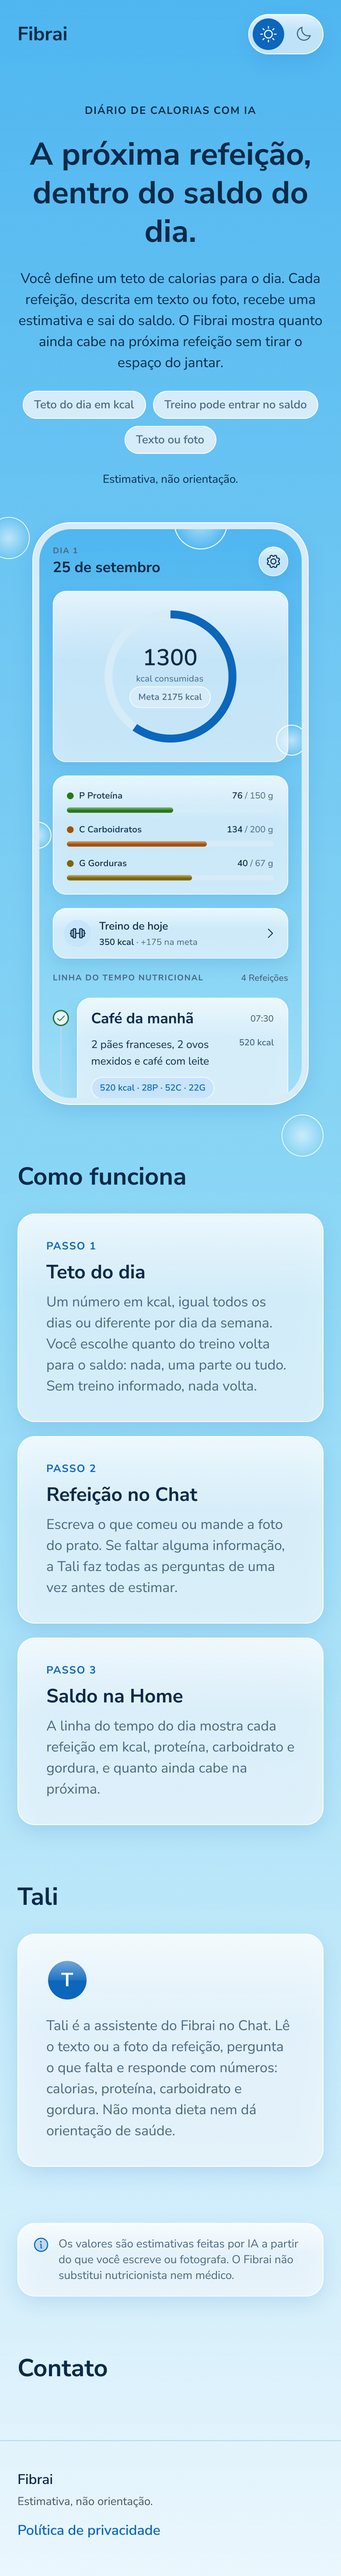
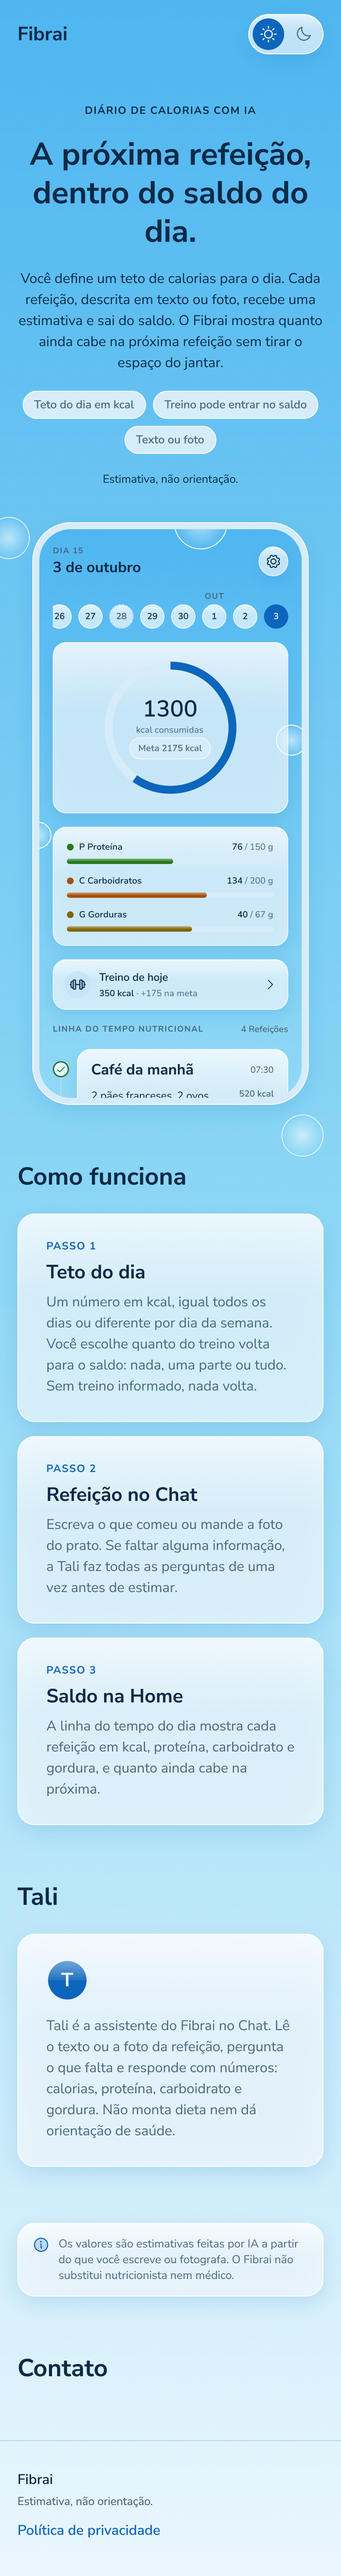
docs(design): D29 owner OK, land and landM golds exported, plan closed

Changed region(s): [[0.1538, 0.2179, 0.8615, 0.4357]]

diff --git a/docs/site/plans/w3-landing-screens-after-onboarding.md b/docs/site/plans/w3-landing-screens-after-onboarding.md
@@ -13,7 +13,7 @@
 - Related documentation: [site README](../README.md), [ADR-037](../adrs/ADR-037-landing-site.md), [W1](completed/w1-landing-site.md) (§ 6, the screen cut), [D11](../../design/plans/completed/d11-landing-page.md), [ADR-057](../../produto/adrs/ADR-057-conversational-onboarding.md), [ADR-058](../../produto/adrs/ADR-058-extras-and-history.md), the [run report of D27 and D28](../../design/validation/2026-10-09-d27-d28.md) (follow-up 2), the [gold inventory](../../qa/README.md#golds), [production gate](../../content-policy/production-gate.md).
 - Prerequisites:
   - [D27](../../design/plans/completed/d27-conversational-onboarding.md) and [D28](../../design/plans/completed/d28-home-extras-and-history.md) `Concluído` (met);
-  - [D29](../../design/plans/pending_manual_validation/d29-landing-phone-screens.md) `Concluído`: the golds `land` and `landM` show `ob3` and the D28 `home1` in their phones.
+  - [D29](../../design/plans/completed/d29-landing-phone-screens.md) `Concluído`: the golds `land` and `landM` show `ob3` and the D28 `home1` in their phones.
 
 Authorization and delivery follow [SDD](../../sdd/README.md). Approval: `Aprovo o plano docs/site/plans/w3-landing-screens-after-onboarding.md. Implemente o plano aprovado.`
 
@@ -31,7 +31,7 @@ So `npm --prefix web run check` fails, and the live page would show an onboardin
 
 ## Decision: `ob3` replaces `o1`
 
-The left phone shows `ob3`, the summary of the profile. The comparison of the candidates (`ob0`, `ob2`, `ob3`, the transitional states) is owned by [D29](../../design/plans/pending_manual_validation/d29-landing-phone-screens.md#decision-which-onboarding-screen-replaces-o1); in short, `ob3` is the only onboarding screen whose top 844 pt carry the ceiling, the macros, the meals and the eat-back the landing text talks about, it does not repeat the Chat look of `chatE`, and it has no CTA that could read as a way to get the app. `home1` and `chatE` stay in their places.
+The left phone shows `ob3`, the summary of the profile. The comparison of the candidates (`ob0`, `ob2`, `ob3`, the transitional states) is owned by [D29](../../design/plans/completed/d29-landing-phone-screens.md#decision-which-onboarding-screen-replaces-o1); in short, `ob3` is the only onboarding screen whose top 844 pt carry the ceiling, the macros, the meals and the eat-back the landing text talks about, it does not repeat the Chat look of `chatE`, and it has no CTA that could read as a way to get the app. `home1` and `chatE` stay in their places.
 
 ## Copy and layout check
 
@@ -65,7 +65,7 @@ Checked against the landing text (`web/public/index.html`, verbatim from the D11
 ## Out of scope
 
 - Landing copy or layout, including a sentence about the guided onboarding (a D11 copy follow-up in Figma first).
-- The Figma clones and the `land`/`landM` export: [D29](../../design/plans/pending_manual_validation/d29-landing-phone-screens.md).
+- The Figma clones and the `land`/`landM` export: [D29](../../design/plans/completed/d29-landing-phone-screens.md).
 - Hosting and deploy ([W2](w2-landing-hosting.md)).
 - Any way to get the app, analytics or data collection: a [production gate](../../content-policy/production-gate.md) trigger.
 

diff --git a/docs/design/plans/completed/d29-landing-phone-screens.md b/docs/design/plans/completed/d29-landing-phone-screens.md
@@ -1,6 +1,6 @@
 # Plan — D29 Landing page: phone screens after D27 and D28
 
-- Status: Pendente aprovação manual
+- Status: Concluído
 - Date: 09/10/2026
 - Owning context: `design`
 - Affected code: none in `apps/`, `server/` or `web/`. Figma `Design` → page `Landing page` → section `Landing · D11`: the phone-screen clones of `land` (Light `106:530`, Dark `107:853`) and `landM` (Light `106:716`, Dark `107:1003`). Repository: `docs/qa/figma/{dark,light}/{land,landM}.png`. Node ids in `tools/export-figma.mjs` only if a frame id changes.
@@ -97,7 +97,13 @@ Copy check: the landing text was compared with `ob3` and the D28 `home1` (table 
 
 ### Review
 
-Review PNGs (phone crops of `land` and `landM`, both themes, from the dry run) sent to the owner on 09/10/2026. Waiting for the owner's OK in Figma (page `Landing page`, section `Landing · D11`), then step 5 (export).
+Review PNGs (phone crops of `land` and `landM`, both themes, from the dry run) sent to the owner on 09/10/2026. Owner OK on 09/10/2026, first round, no fixes (given in chat with the approval of W3: "Yes, OK D29").
+
+### Export
+
+- `node tools/export-figma.mjs --only land,landM`: `land` 3.839 % px changed Light, 1.156 % Dark; `landM` 5.951 % Light, 1.911 % Dark; all kept by the noise filter. Only these four PNGs have a byte diff.
+- `node tools/check-figma.mjs`: all 114 gold PNGs verified (57 dark + 57 light). Inventory unchanged.
+- Next: [W3](../../../site/plans/w3-landing-screens-after-onboarding.md) cuts the same screens for `web/` and compares against these golds.
 
 ### Figma MCP calls
 

diff --git a/docs/design/plans/README.md b/docs/design/plans/README.md
@@ -193,7 +193,7 @@ The landing phones are clones of app golds; D27 retired `o1` and D28 redrew `hom
 
 | Step | Plan | Depends on |
 |---|---|---|
-| Landing design | [D29](pending_manual_validation/d29-landing-phone-screens.md) — `ob3` and the new `home1` in the phones of `land` and `landM` | D27, D28 |
+| Landing design | D29 — `ob3` and the new `home1` in the phones of `land` and `landM`, delivered ([history](completed/)) | D27, D28 |
 | Landing code | [W3](../../site/plans/w3-landing-screens-after-onboarding.md) — re-cut the phone screens in `web/` | D29 |
 
 ## History

diff --git a/docs/design/README.md b/docs/design/README.md
@@ -53,7 +53,6 @@ Status: the status line of each ADR.
 
 Active: the files at the root of [`plans/`](plans/). Execution order and dependencies: [plans/README.md](plans/README.md).
 
-- Pending manual validation: [`plans/pending_manual_validation/`](plans/pending_manual_validation/).
 - Completed: [`plans/completed/`](plans/completed/).
 
 ### Validation
